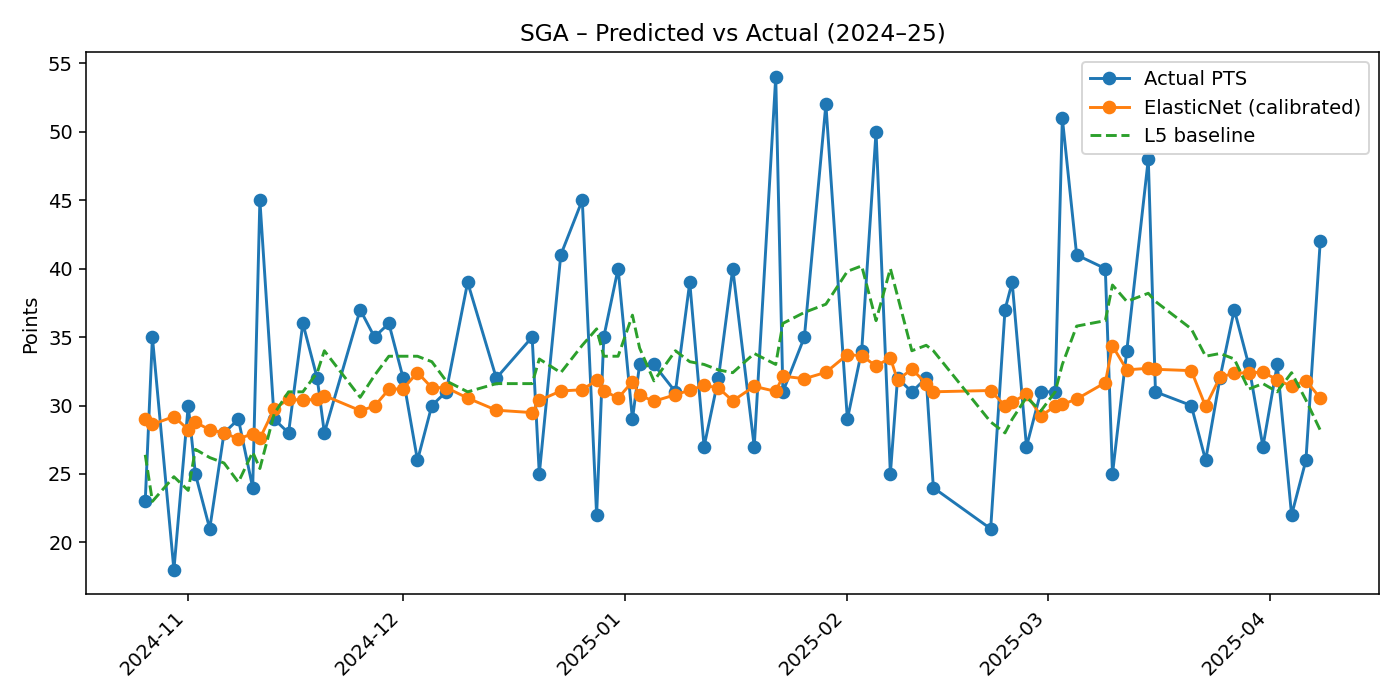
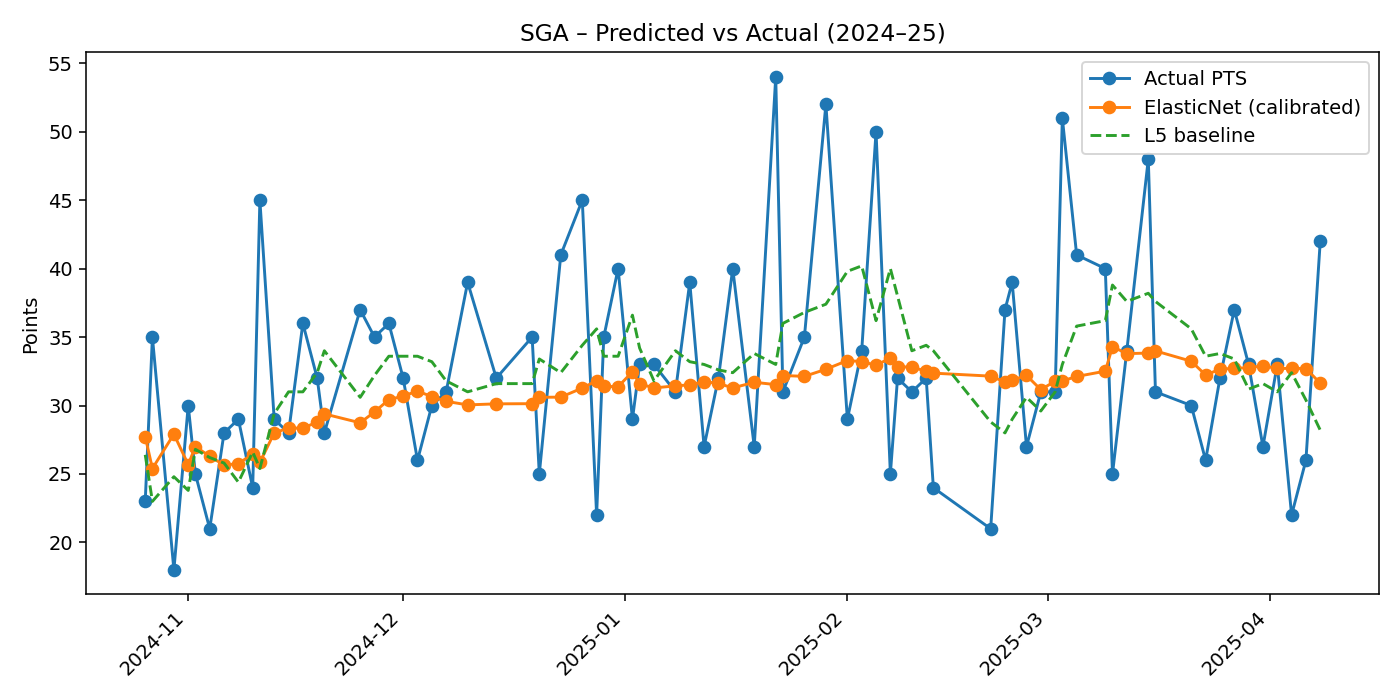
Finished ElasticNet model with teh SGA dataset v1.0

Changed region(s): [[0.0921, 0.48, 0.9521, 0.69]]

diff --git a/Data/src/Models/sga_elasticnet.py b/Data/src/Models/sga_elasticnet.py
@@ -10,7 +10,7 @@ from pymongo import MongoClient, UpdateOne
 
 from sklearn.pipeline import Pipeline
 from sklearn.preprocessing import StandardScaler, RobustScaler
-from sklearn.linear_model import ElasticNet
+from sklearn.linear_model import ElasticNet, HuberRegressor, QuantileRegressor
 from sklearn.model_selection import GridSearchCV
 from sklearn.base import clone
 from sklearn.metrics import mean_absolute_error, mean_squared_error, r2_score
@@ -344,9 +344,8 @@ if __name__ == "__main__":
     cv_splits = list(expanding_window_splits(train))
     pipe = Pipeline([
         ("scaler", RobustScaler()),
-        ("model", ElasticNet(max_iter=50000, tol=1e-5, random_state=42)),
+        ("model", QuantileRegressor(quantile=0.6, alpha=1e-4, solver="highs")),
     ])
-
 
     gs = GridSearchCV(
         pipe,
@@ -367,63 +366,93 @@ if __name__ == "__main__":
     best_model.fit(X_train, y_train)
     show_coefs(best_model, feat_cols)
 
+    def safe_calibrate(y_hat, y_true):
+        # same guard you used before
+        if np.std(y_hat) < 1e-8 or np.std(y_true) < 1e-8:
+            return 0.0, 1.0
+        corr = float(np.corrcoef(y_hat, y_true)[0, 1])
+        if not np.isfinite(corr) or corr <= 0.20:
+            return 0.0, 1.0
+        A = np.column_stack([np.ones_like(y_hat), y_hat])
+        try:
+            a_tmp, b_tmp = np.linalg.lstsq(A, y_true, rcond=None)[0]
+        except np.linalg.LinAlgError:
+            return 0.0, 1.0
+        if np.isfinite(b_tmp) and 0.25 <= b_tmp <= 1.75:
+            return float(a_tmp), float(b_tmp)
+        return 0.0, 1.0
+
+    def grid_simplex(step=0.05):
+        # generate (w_model, w_med5, w_std) >=0, sum=1
+        w = np.arange(0.0, 1.0 + 1e-9, step)
+        for wm in w:
+            for wmed in w:
+                wstd = 1.0 - wm - wmed
+                if wstd < -1e-9: 
+                    continue
+                if wstd < 0: 
+                    wstd = 0.0
+                # tiny numerical drift fix
+                s = wm + wmed + wstd
+                yield (wm/s, wmed/s, wstd/s)
+
+    def choose_stack_weights_cv(train_df, feat_cols, cv_splits, base_cols):
+        # base_cols expected keys: "MED5", "STD"
+        best_triplet = (1.0, 0.0, 0.0)
+        best_mae = 1e18
+
+        for wm, wmed, wstd in grid_simplex(step=0.05):
+            fold_mae = []
+            for tr_idx, va_idx in cv_splits:
+                X_tr = train_df.iloc[tr_idx][feat_cols].values
+                y_tr = train_df.iloc[tr_idx]["PTS"].values
+                X_va = train_df.iloc[va_idx][feat_cols].values
+                y_va = train_df.iloc[va_idx]["PTS"].values
+
+                m = clone(best_model)
+                m.fit(X_tr, y_tr)
+                y_hat = m.predict(X_va)
+
+                a, b = safe_calibrate(y_hat, y_va)
+                y_hat_cal = a + b * y_hat
+
+                parts = [wm * y_hat_cal]
+                parts.append(wmed * train_df.iloc[va_idx][base_cols["MED5"]].values if "MED5" in base_cols else 0.0)
+                parts.append(wstd * train_df.iloc[va_idx][base_cols["STD"]].values if "STD"  in base_cols else 0.0)
+                y_blend = np.sum(parts, axis=0)
+
+                fold_mae.append(mean_absolute_error(y_va, y_blend))
+            mae = float(np.mean(fold_mae))
+            if mae < best_mae:
+                best_mae, best_triplet = mae, (wm, wmed, wstd)
+        return best_triplet, best_mae
+
+    # pick available baselines in TRAIN
+    base_cols = {}
+    if "PTS_MED5" in train.columns:       base_cols["MED5"] = "PTS_MED5"
+    if "PTS_SEASON_TD" in train.columns:  base_cols["STD"]  = "PTS_SEASON_TD"
+
+    # learn weights across folds
+    (wm, wmed, wstd), cv_stack_mae = choose_stack_weights_cv(train, feat_cols, cv_splits, base_cols)
+    print(f"Stacked weights (validation across folds): model={wm:.2f}, MED5={wmed:.2f}, STD={wstd:.2f}")
+
+    # final calibration on the last validation fold (as before)
     last_tr_idx, last_va_idx = list(expanding_window_splits(train))[-1]
     X_val = train.iloc[last_va_idx][feat_cols].values
     y_val = train.iloc[last_va_idx]["PTS"].values
     y_val_hat = best_model.predict(X_val)
+    a, b = safe_calibrate(y_val_hat, y_val)
+    print(f"Calibration used: {'identity (no calibration)' if (a,b)==(0.0,1.0) else f'y ≈ {a:.3f} + {b:.3f}·ŷ'}")
 
-    def safe_corr(a, b):
-        if np.std(a) < 1e-8 or np.std(b) < 1e-8:
-            return np.nan
-        return float(np.corrcoef(a, b)[0, 1])
-
-    corr = safe_corr(y_val_hat, y_val)
-
-    a, b = 0.0, 1.0
-    calib_msg = "identity (no calibration)"
-    if np.isfinite(corr) and corr > 0.10:
-        A = np.column_stack([np.ones_like(y_val_hat), y_val_hat])
-        try:
-            a_tmp, b_tmp = np.linalg.lstsq(A, y_val, rcond=None)[0]
-        except np.linalg.LinAlgError:
-            a_tmp, b_tmp = np.nan, np.nan
-        if np.isfinite(b_tmp) and 0.25 <= b_tmp <= 1.75:
-            a, b = float(a_tmp), float(b_tmp)
-            calib_msg = f"y ≈ {a:.3f} + {b:.3f}·ŷ"
-    print(f"Calibration used: {calib_msg}, corr={corr if np.isfinite(corr) else float('nan'):.3f}")
-
-    # --- Choose the best baseline + lambda on validation ---
-   # --- Tiny stacked blend on the validation fold (non-negative weights, sum to 1)
-    y_val_cal = a + b * y_val_hat  # calibrated model preds on validation
-
-    # build validation matrix with whatever baselines exist
-    val_cols = [("model", y_val_cal)]
-    if "PTS_MED5" in train.columns:
-        val_cols.append(("MED5", train.iloc[last_va_idx]["PTS_MED5"].values))
-    if "PTS_SEASON_TD" in train.columns:
-        val_cols.append(("STD",  train.iloc[last_va_idx]["PTS_SEASON_TD"].values))
-
-    names, mats = zip(*val_cols)
-    B_val = np.column_stack(mats)  # shape [n_val, k]
-
-    # non-negative least squares-ish: solve then clamp to ≥0 and renormalize
-    w_raw = np.linalg.lstsq(B_val, y_val, rcond=None)[0]          # unconstrained
-    w = np.maximum(w_raw, 0.0)                                    # clamp negatives
-    w = w / (w.sum() + 1e-12)                                     # sum to 1
-    print("Stacked weights (validation): " + ", ".join(f"{n}={wt:.2f}" for n, wt in zip(names, w)))
-
-    # --- Final test predictions (apply the same weights) ---
+    # TEST predictions: calibrate model head, then apply stacked weights
     y_pred_raw = best_model.predict(X_test)
     y_pred_cal = a + b * y_pred_raw
 
-    test_cols = [y_pred_cal]
-    if "MED5" in names:  # keep column order aligned with 'names'
-        test_cols.append(test["PTS_MED5"].values)
-    if "STD" in names:
-        test_cols.append(test["PTS_SEASON_TD"].values)
+    parts_test = [wm * y_pred_cal]
+    if "MED5" in base_cols: parts_test.append(wmed * test[base_cols["MED5"]].values)
+    if "STD"  in base_cols: parts_test.append(wstd  * test[base_cols["STD"]].values)
 
-    B_test = np.column_stack(test_cols)
-    y_pred = np.clip(B_test @ w, 0, 80)
+    y_pred = np.clip(np.sum(parts_test, axis=0), 0, 80)
 
     # Optional: show baseline MAEs for context (computed on TEST labels)
     if "PTS_EWMA3" in test.columns:
